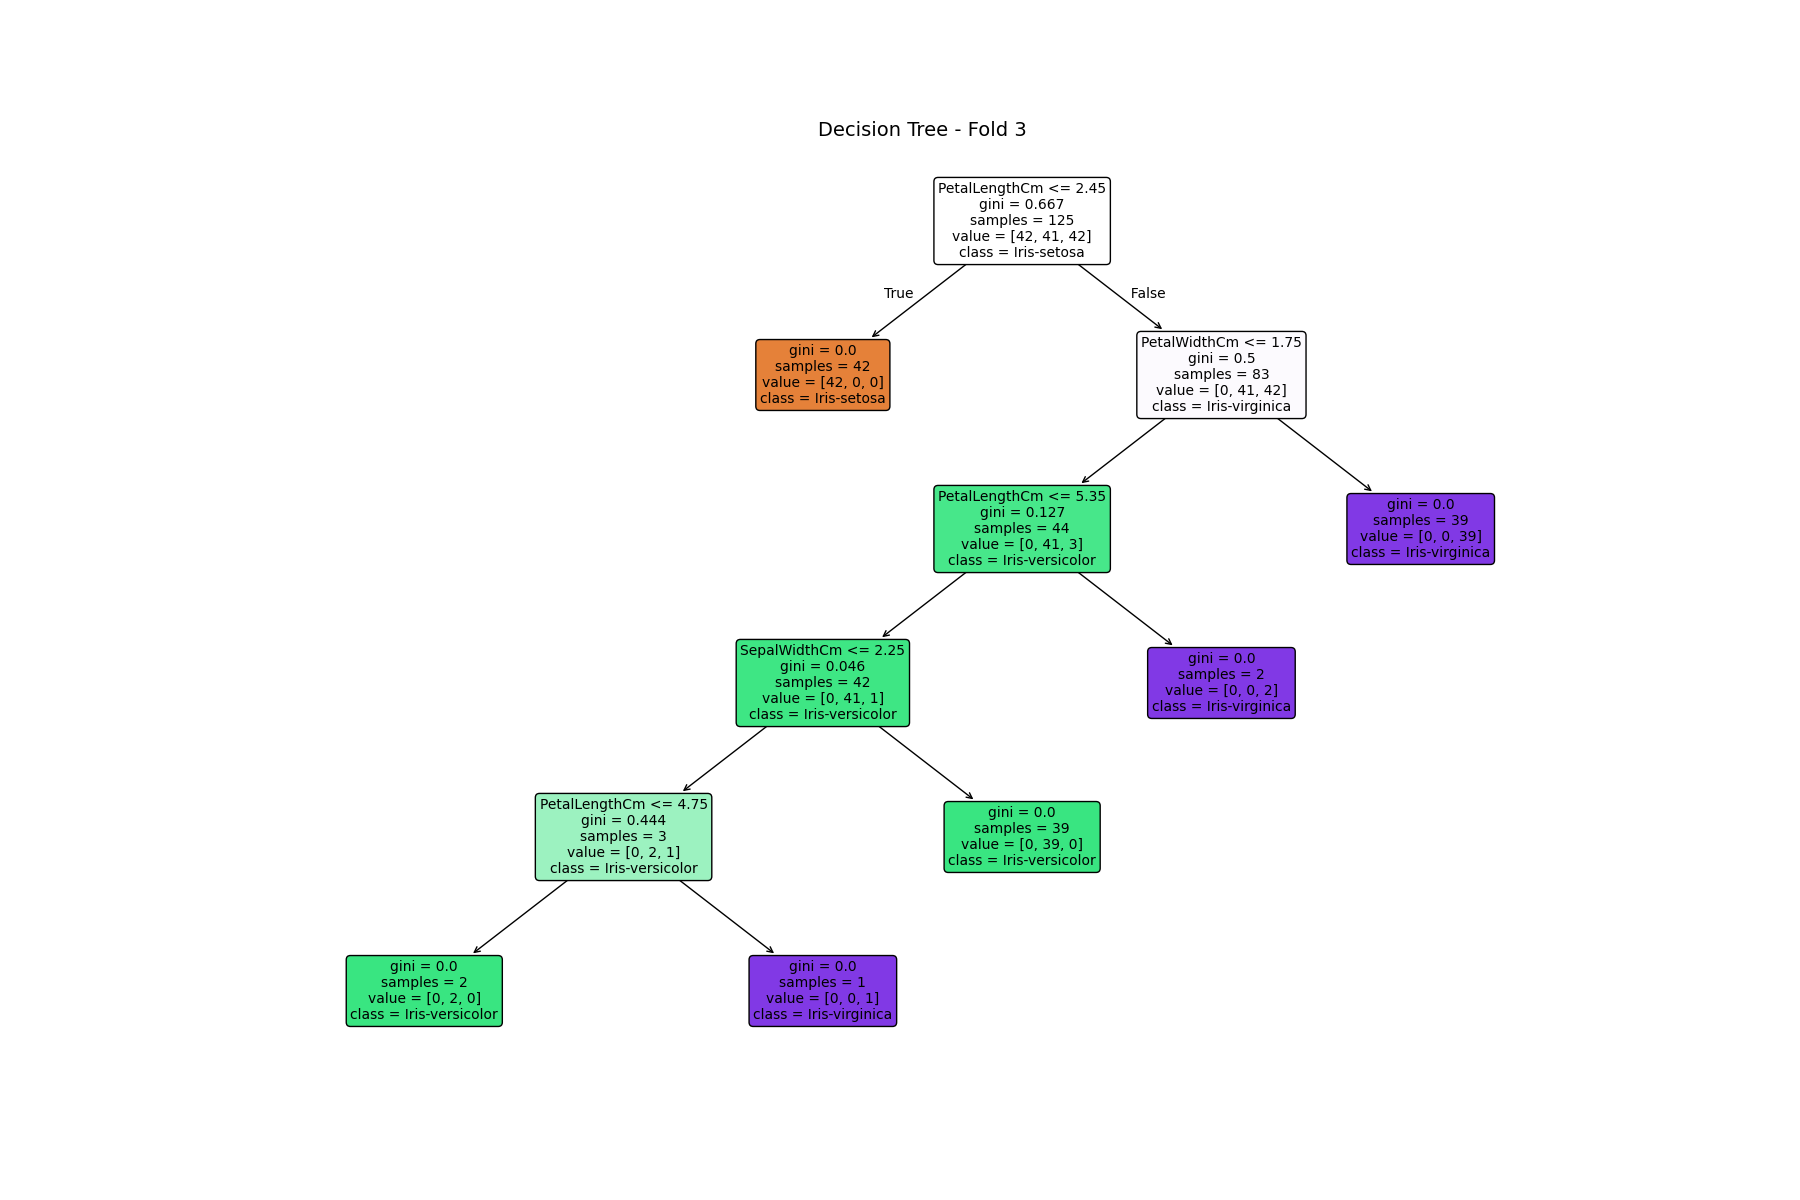
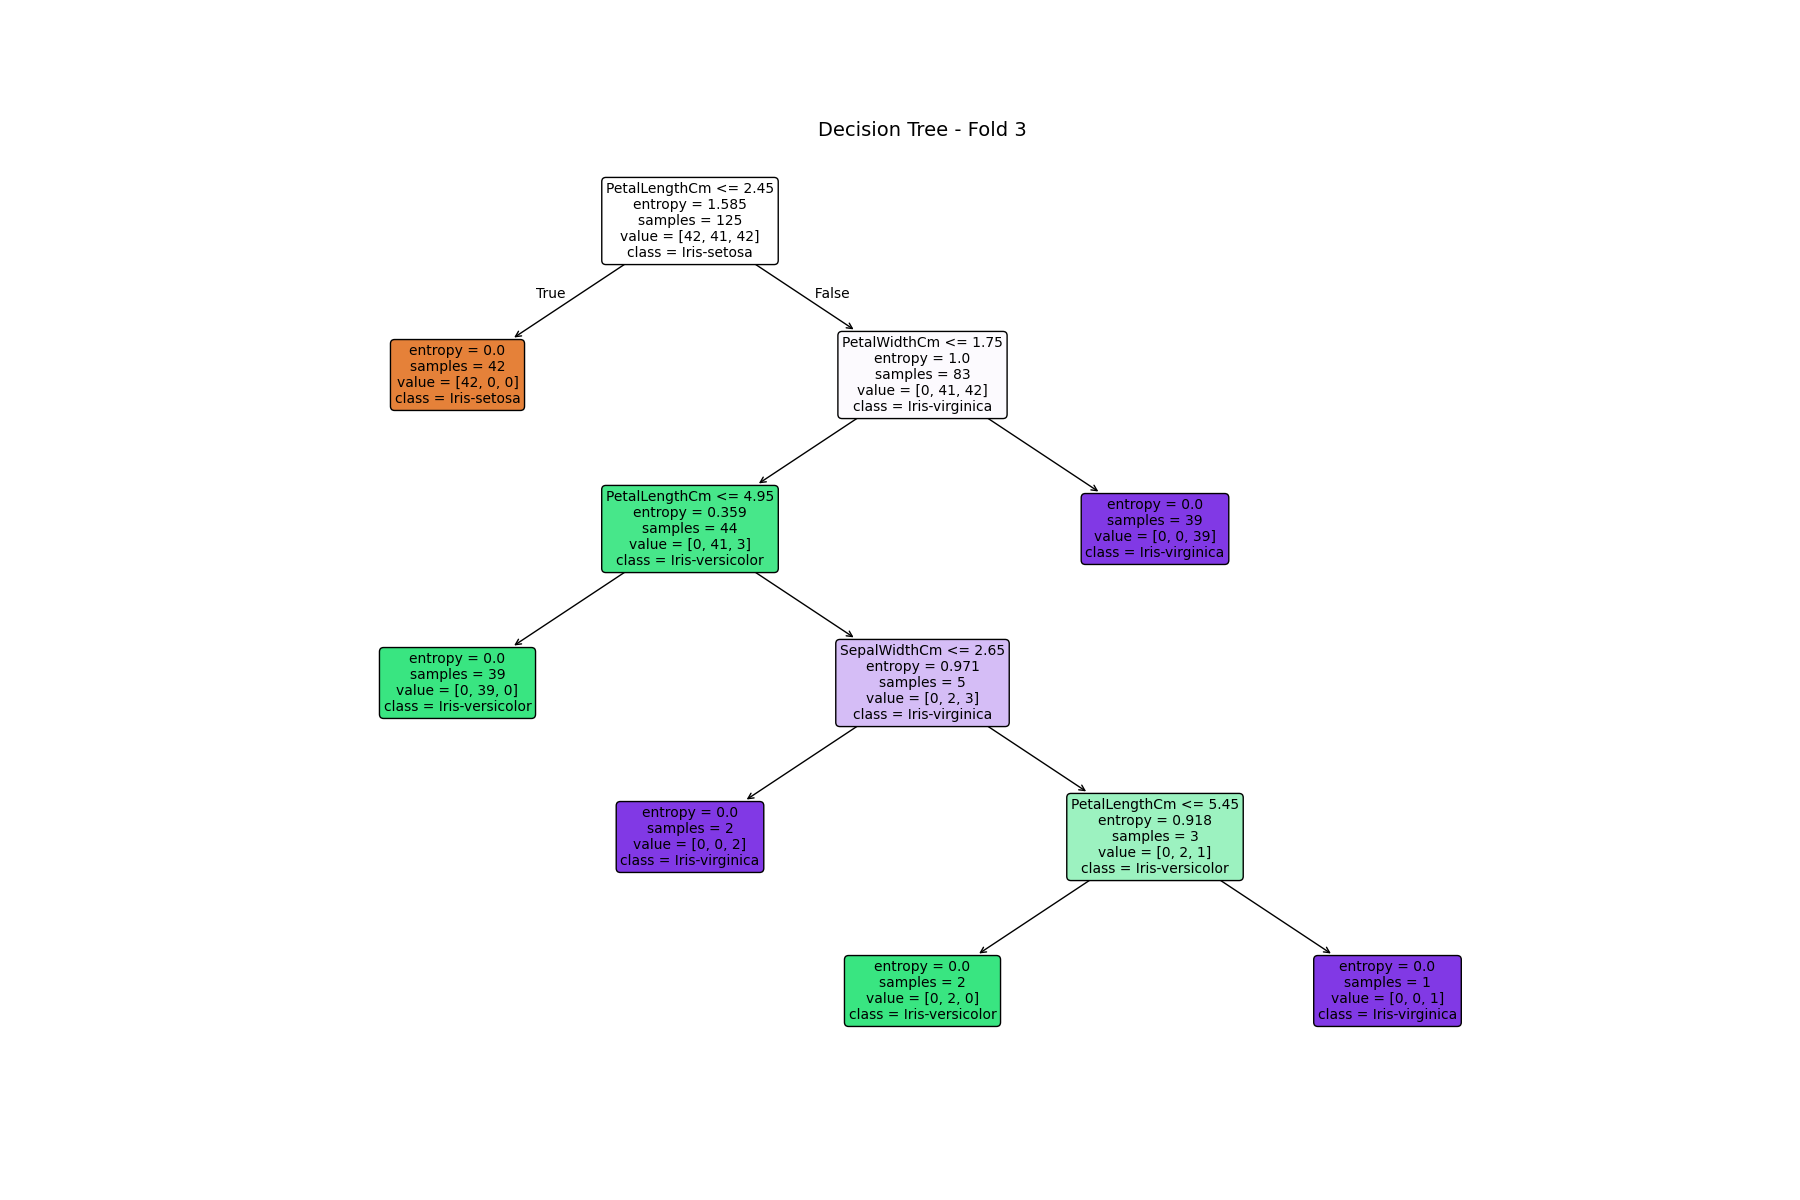
Implemented entropy

diff --git a/src/main.py b/src/main.py
@@ -6,7 +6,7 @@ import matplotlib.pyplot as plt
 from sklearn.model_selection import StratifiedKFold
 from sklearn.tree import DecisionTreeClassifier, plot_tree
 from sklearn.metrics import accuracy_score, confusion_matrix
-
+ 
 # ==============================================================================
 # Configuration Constants
 # ==============================================================================
@@ -17,23 +17,23 @@ from sklearn.metrics import accuracy_score, confusion_matrix
 #   ├── src/
 #   │   └── main.py (current file)
 #   └── output/ (will be created)
-
+ 
 # Determine the absolute path of the directory containing main.py ('src')
-ROOT_DIR = os.path.dirname(os.path.abspath(__file__)) 
+ROOT_DIR = os.path.dirname(os.path.abspath(__file__))
 # Path to the data file: step up from 'src' then go into 'dataset'
 DATA_FILE_PATH = os.path.join(os.path.dirname(ROOT_DIR), "dataset", "Iris.csv")
-
+ 
 # Define the root output directory path
 OUTPUT_DIR = os.path.join(os.path.dirname(ROOT_DIR), "output")
 # Define subdirectories for different types of output
 TREE_DIR = os.path.join(OUTPUT_DIR, "decision_trees")
 PLOT_DIR = os.path.join(OUTPUT_DIR, "box_plots")
 # NEW DIRECTORY: for CSV summary files
-SUMMARY_DIR = os.path.join(OUTPUT_DIR, "summary_metrics") 
-
+SUMMARY_DIR = os.path.join(OUTPUT_DIR, "summary_metrics")
+ 
 N_SPLITS = 6  # Required number of folds for cross-validation (Assignment 1)
 SEED = 42     # Random seed for reproducibility of data split and tree training
-
+ 
 # ==============================================================================
 # 1. Data Loading and Preparation
 # ==============================================================================
@@ -48,7 +48,7 @@ def load_and_prepare_data():
     except FileNotFoundError:
         print(f"Error: Data file not found at {DATA_FILE_PATH}. Please check the path.")
         return None, None, None, None
-
+ 
     # Prepare features (X): drop the target ('Species') and unnecessary identifier ('Id')
     X = df.drop(columns=["Species", "Id"])
     # Prepare labels (y): the target variable
@@ -60,14 +60,14 @@ def load_and_prepare_data():
     print(f"Data loaded successfully. Total samples: {len(df)}")
     print(f"Features: {feature_names}, Classes: {class_names}")
     return X, y, class_names, feature_names
-
+ 
 # ==============================================================================
 # 2. Cross-Validation, Training, and Evaluation
 # ==============================================================================
 def run_cross_validation(X, y, feature_names):
     """
     Executes the 6-fold stratified cross-validation process.
-    Trains the Decision Tree, saves the visualization, calculates metrics, 
+    Trains the Decision Tree, saves the visualization, calculates metrics,
     and records all test set predictions.
     """
     # Initialize Stratified K-Fold for stratified sampling (Requirement #1)
@@ -78,10 +78,10 @@ def run_cross_validation(X, y, feature_names):
     
     # Create necessary output directories
     os.makedirs(TREE_DIR, exist_ok=True)
-    os.makedirs(SUMMARY_DIR, exist_ok=True) 
+    os.makedirs(SUMMARY_DIR, exist_ok=True)
     
     print(f"\nStarting {N_SPLITS}-Fold Stratified Cross-Validation...")
-
+ 
     # Iterate through each of the 6 folds
     for fold, (train_index, test_index) in enumerate(skf.split(X, y), 1):
         print(f"\n--- Processing Fold {fold}/{N_SPLITS} ---")
@@ -91,14 +91,15 @@ def run_cross_validation(X, y, feature_names):
         y_train, y_test = y.iloc[train_index], y.iloc[test_index]
         
         # 2. Construct a decision tree using the training data subset
-        dt_classifier = DecisionTreeClassifier(random_state=SEED)
+        dt_classifier = DecisionTreeClassifier(random_state=SEED, criterion="entropy")
+        print(f"Using Decision Tree criterion: {dt_classifier.criterion}")
         dt_classifier.fit(X_train, y_train)
         
         # Save Decision Tree Visualization (Requirement #3)
         plt.figure(figsize=(18, 12))
-        plot_tree(dt_classifier, 
-                  feature_names=feature_names, 
-                  class_names=dt_classifier.classes_, 
+        plot_tree(dt_classifier,
+                  feature_names=feature_names,
+                  class_names=dt_classifier.classes_,
                   filled=True, rounded=True, fontsize=10)
         tree_filename = os.path.join(TREE_DIR, f"DecisionTree_Fold{fold}.png")
         plt.title(f"Decision Tree - Fold {fold}", fontsize=14)
@@ -117,7 +118,7 @@ def run_cross_validation(X, y, feature_names):
                 'Predicted_Label': predicted,
                 'Fold': fold
             })
-
+ 
         # Compute Overall Accuracy (Requirement #3 metric)
         accuracy = accuracy_score(y_test, y_pred)
         
@@ -129,8 +130,8 @@ def run_cross_validation(X, y, feature_names):
         for i, cls in enumerate(dt_classifier.classes_):
             # Calculate components from the 3x3 confusion matrix
             TP = cm[i, i]
-            FN = cm[i, :].sum() - TP 
-            FP = cm[:, i].sum() - TP 
+            FN = cm[i, :].sum() - TP
+            FP = cm[:, i].sum() - TP
             TN = cm.sum() - (TP + FN + FP)
             
             # Precision: TP / (TP + FP)
@@ -141,7 +142,7 @@ def run_cross_validation(X, y, feature_names):
             
             # Specificity: TN / (TN + FP)
             specificity = TN / (TN + FP) if (TN + FP) > 0 else 0
-
+ 
             fold_metrics[f'{cls}_Precision'] = precision
             fold_metrics[f'{cls}_Recall'] = recall
             fold_metrics[f'{cls}_Specificity'] = specificity
@@ -153,17 +154,23 @@ def run_cross_validation(X, y, feature_names):
     # Finalize and save the predicted labels summary (CSV saved to 'summary_metrics' folder)
     predictions_df = pd.DataFrame(all_predictions)
     predictions_df.sort_values(by=['Sample_Index_in_Original_Dataset'], inplace=True)
-    predictions_df.to_csv(os.path.join(SUMMARY_DIR, "predicted_labels_summary.csv"), index=False)
+
+    # Minor Improvement: write CSV header comment for clarity
+    summary_file_path = os.path.join(SUMMARY_DIR, "predicted_labels_summary.csv")
+    with open(summary_file_path, "w", encoding="utf-8") as f:
+        f.write("# Predicted labels across all 6 folds\n")
+        f.write("# Columns: Sample_Index_in_Original_Dataset, Actual_Label, Predicted_Label, Fold\n")
+    predictions_df.to_csv(summary_file_path, mode="a", index=False)
     print("\nPredicted labels summary saved to the 'output/summary_metrics' folder.")
     
     return results_df
-
+ 
 # ==============================================================================
 # 3. Quantitative Analysis and Plotting
 # ==============================================================================
 def perform_analysis_and_plot(results_df, class_names):
     """
-    Performs the final quantitative assessment by calculating mean/variance 
+    Performs the final quantitative assessment by calculating mean/variance
     and generating the required box plots (Assignment 4b).
     """
     
@@ -173,14 +180,19 @@ def perform_analysis_and_plot(results_df, class_names):
     analysis_df = pd.concat([mean_metrics, variance_metrics], axis=1)
     
     # Save metrics summary to the 'summary_metrics' folder
-    analysis_df.to_csv(os.path.join(SUMMARY_DIR, "metrics_summary.csv"))
-
+    # Minor Improvement: write CSV header comment for clarity
+    summary_metrics_path = os.path.join(SUMMARY_DIR, "metrics_summary.csv")
+    with open(summary_metrics_path, "w", encoding="utf-8") as f:
+        f.write("# Mean and Variance of Class-wise Metrics across 6 folds\n")
+        f.write("# Columns include Accuracy, Precision, Recall, and Specificity for each class\n")
+    analysis_df.to_csv(summary_metrics_path, mode="a")
+ 
     print("\n" + "="*50)
     print("             Quantitative Assessment")
     print("="*50)
     print("\n--- Mean and Variance of Performance Metrics (Assignment 4b) ---")
     print(analysis_df.to_string())
-
+ 
     # Draw box plots for class-wise metrics (Requirement #4b)
     os.makedirs(PLOT_DIR, exist_ok=True)
     
@@ -191,9 +203,9 @@ def perform_analysis_and_plot(results_df, class_names):
             class_metrics_data.append({'Class': name, 'Metric': 'Precision', 'Value': row[f'{name}_Precision']})
             class_metrics_data.append({'Class': name, 'Metric': 'Recall', 'Value': row[f'{name}_Recall']})
             class_metrics_data.append({'Class': name, 'Metric': 'Specificity', 'Value': row[f'{name}_Specificity']})
-
+ 
     metrics_plot_df = pd.DataFrame(class_metrics_data)
-
+ 
     plt.figure(figsize=(12, 6))
     # Box plots summarizing metrics for each class separately (required visualization)
     sns.boxplot(x='Metric', y='Value', hue='Class', data=metrics_plot_df)
@@ -207,7 +219,7 @@ def perform_analysis_and_plot(results_df, class_names):
     plt.savefig(plot_filename)
     plt.close()
     print(f"\nBox plot visualization saved to {plot_filename}")
-
+ 
 # ==============================================================================
 # 4. Main Execution Block
 # ==============================================================================
@@ -221,32 +233,20 @@ def main():
     
     if X is None:
         return
-
+ 
     # Step 2 & 3: Run cross-validation, train models, compute metrics, and record predictions
     results_df = run_cross_validation(X, y, feature_names)
-
+ 
     # Step 4: Perform quantitative analysis and plotting
     perform_analysis_and_plot(results_df, class_names)
     
-    # Provide guidance for the required qualitative analysis
-    print("\n" + "="*50)
-    print("           Qualitative Assessment Guide")
-    print("="*50)
-    print("Action Required: Qualitatively assess how different the decision trees are (Assignment 4a).")
-    print(f"Review the six image files in the '{TREE_DIR}' directory and comment on:")
-    print("1. Root feature selection in each fold.")
-    print("2. Tree depth and complexity.")
-    print("3. Variations in critical split points (thresholds).")
-    
-    print("\n*** Submission Checklist ***")
-    print("Ensure the following files are submitted:")
-    print("1. Implementation Document (summary and analysis).")
-    print("2. This code file (src/main.py).")
-    print("3. Decision Tree images (in output/decision_trees/).")
-    print("4. Box Plots image (in output/box_plots/).")
-    print("5. Metrics summary (in output/summary_metrics/metrics_summary.csv).")
-    print("6. Predicted labels summary (in output/summary_metrics/predicted_labels_summary.csv).")
-
+    print("\n" + "="*53)
+    print("\nAll tasks completed successfully. Summary of outputs:")
+    print("\n" + "="*53)
+    print("1. Decision Tree images (in output/decision_trees/).")
+    print("2. Box Plots image (in output/box_plots/).")
+    print("3. Metrics summary (in output/summary_metrics/metrics_summary.csv).")
+    print("4. Predicted labels summary (in output/summary_metrics/predicted_labels_summary.csv).")
+ 
 if __name__ == "__main__":
-    # Standard practice to ensure 'main()' runs when the script is executed directly
     main()
